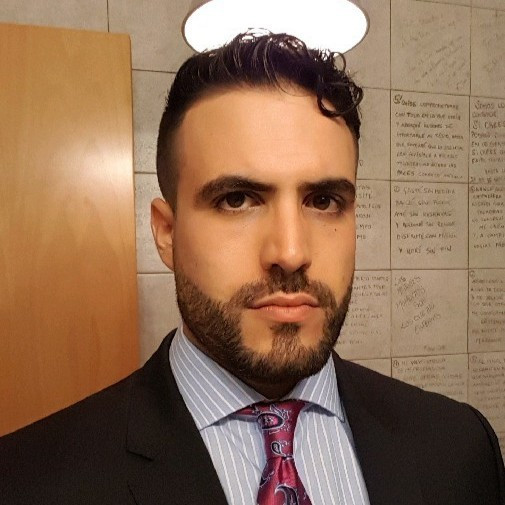
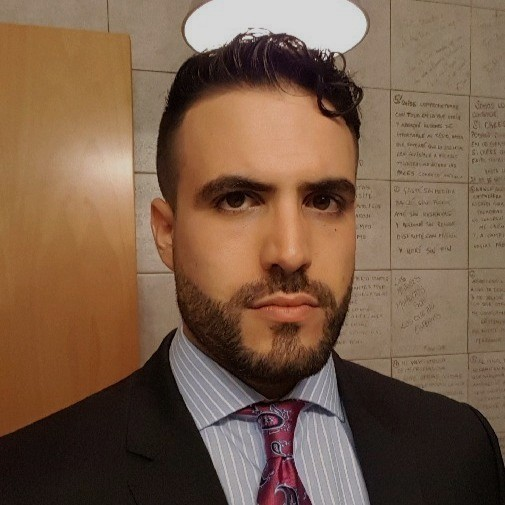
fix imagen

diff --git a/src/components/About.tsx b/src/components/About.tsx
@@ -62,7 +62,8 @@ const About = () => {
                 <img
                   src={blasPortrait}
                   alt="Blas Chiaretta - Financial Advisor"
-                  className="w-[32rem] h-[24rem] object-cover rounded-lg self-start"
+                  className="w-[32rem] h-[24rem] object-cover object-top rounded-lg self-start"
+                  style={{ objectPosition: 'center 20%' }}
                 />
               </div>
               {/* Education debajo de la imagen */}
